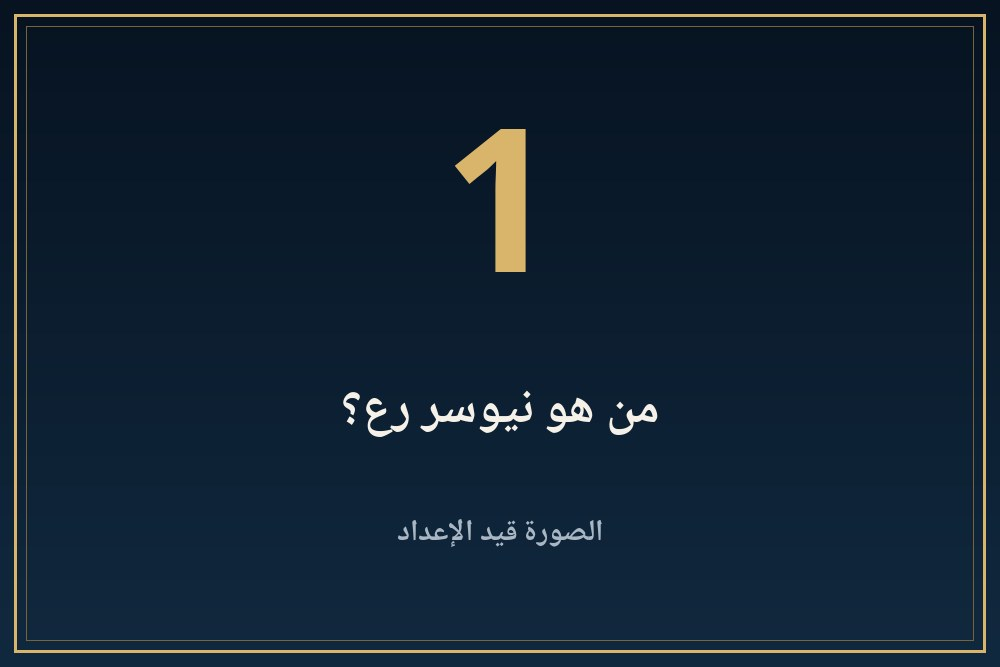
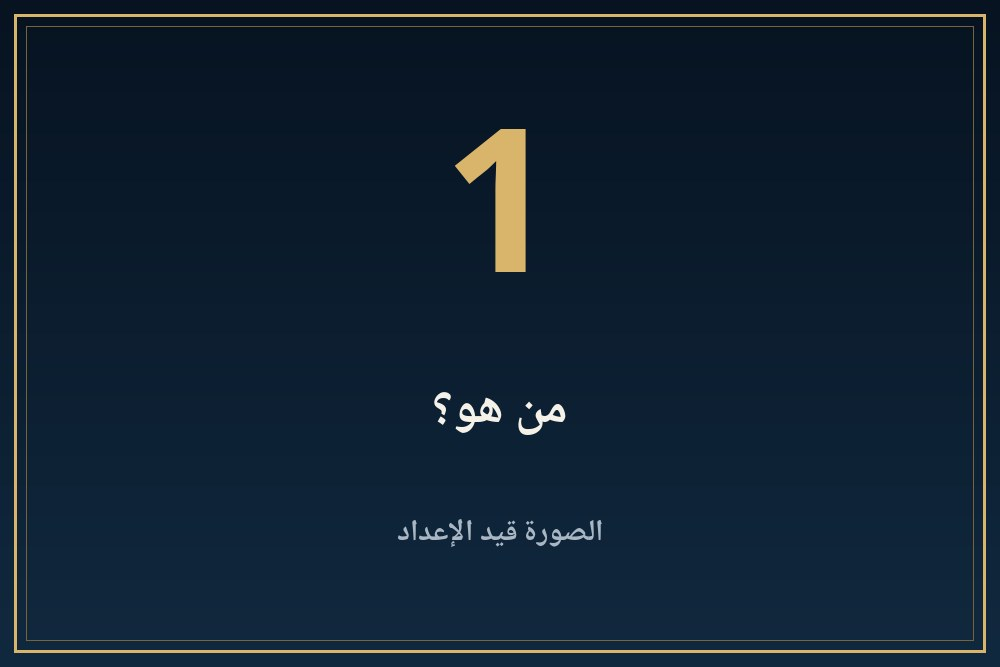
King 028: rebuilt from updated content (placeholders, audio pending)

Changed region(s): [[0.341, 0.5697, 0.682, 0.6597]]

diff --git a/kings/028-nywsr-ra-eny/index.html b/kings/028-nywsr-ra-eny/index.html
@@ -319,12 +319,12 @@ html[dir=ltr] #panav.open,#pash[dir=ltr] #panav.open{border-right:0!important;bo
 .abt ul{list-style:none;margin:0;padding:0;display:grid;gap:9px}
 .abt li{display:grid;grid-template-columns:62px 1fr;gap:10px;align-items:baseline;font-size:14px;line-height:1.85;color:#d6dee8}
 .abt li b{color:#d8b56b;font-size:13px;font-weight:700}
-@media(max-width:520px){.abt li{grid-template-columns:1fr;gap:0}.abt li b{margin-bottom:0}}</style><style id="back-ctl">.back-controls{z-index:80}.back-controls{position:fixed;bottom:18px;left:18px;z-index:30;display:flex;flex-direction:row;align-items:center;gap:8px;direction:ltr}.back-top{position:static;background:#d8b56b;color:#091725;border:1px solid rgba(240,215,157,.65);border-radius:50%;width:36px;height:36px;min-width:36px;padding:0;font-size:18px;line-height:1;cursor:pointer;box-shadow:0 5px 16px #0005;display:none;align-items:center;justify-content:center}.back-top.visible{display:flex}.back-top:hover{background:#f0d79d;transform:translateY(-1px)}@media(max-width:600px){.back-controls{bottom:12px;left:12px;gap:6px}.back-top{width:34px;height:34px;min-width:34px;font-size:17px}}.back-controls{display:flex;flex-direction:row;align-items:center;justify-content:center;gap:7px;direction:ltr}.back-top{width:32px;height:32px;min-width:32px;font-size:16px;background:#d8b56b;color:#091725;border:1px solid #f0d79d;box-shadow:0 4px 12px #0005}@media(max-width:600px){.back-controls{left:12px;bottom:12px;gap:6px}.back-top{width:31px;height:31px;min-width:31px;font-size:15px}}</style><style id="herodesk">@media(min-width:768px){header.hero{display:block!important}header.hero .hero-img{display:block!important;margin:0 auto 28px!important;max-width:460px!important;width:100%!important}header.hero .hero-img img{width:100%!important;height:auto!important;border-radius:18px}header.hero .hero-txt{margin-top:0!important}}</style><style id="urlwrap">.acc .body,.acc .body p,.acc .body li,.acc .body a,.acc .body ol,.acc .body ul{overflow-wrap:anywhere;word-break:break-word;min-width:0;max-width:100%}.acc .body a{display:inline;unicode-bidi:plaintext}</style></head><div class="pa-topline"></div><div id="pash"><div class="pa-nav"><a aria-label="بر عنخ الرئيسية" class="pa-brand" href="/"><span class="pa-mark"><span>𓂀</span></span><span class="pa-name">PER ANKH<small>بيت الحياة · HOUSE OF LIFE</small></span></a><nav aria-label="التنقل الرئيسي في الموقع" id="panav"><a href="/#home" data-ar="الرئيسية" data-en="Home">الرئيسية</a><a href="/#discover" data-ar="الأقسام الرئيسية" data-en="Main sections">الأقسام الرئيسية</a><a href="/#kings-details" data-ar="الملوك" data-en="Kings">الملوك</a><a href="/#religion-details" data-ar="الديانة" data-en="Religion">الديانة</a><a href="/#timeline-details" data-ar="العصور والأسرات" data-en="Eras &amp; dynasties">العصور والأسرات</a><a href="/#sites-details" data-ar="المواقع الأثرية" data-en="Archaeological sites">المواقع الأثرية</a><a href="/#library-details" data-ar="المكتبة" data-en="Library">المكتبة</a><a href="/#learning-details" data-ar="التعلم والاختبار" data-en="Learning &amp; quiz">التعلم والاختبار</a><a href="/#about" data-ar="المؤسس" data-en="Founder">المؤسس</a><a class="nav-extra" href="/#architecture-details" data-ar="العمارة والفنون" data-en="Architecture &amp; art">العمارة والفنون</a><a class="nav-extra" href="/#daily-life-details" data-ar="الحياة اليومية" data-en="Daily life">الحياة اليومية</a><a class="nav-extra" href="/#virtual-museum" data-ar="المتحف الافتراضي" data-en="Virtual museum">المتحف الافتراضي</a><a class="nav-extra" href="/#digital-lab" data-ar="معمل الآثار الرقمي" data-en="Digital archaeology lab">معمل الآثار الرقمي</a><a class="nav-extra" href="/#academy-details" data-ar="أكاديمية بر عنخ" data-en="Per Ankh academy">أكاديمية بر عنخ</a><a class="nav-extra" href="/#references-details" data-ar="المراجع والمصادر" data-en="References &amp; sources">المراجع والمصادر</a><a class="nav-extra" href="/#library-expanded" data-ar="المكتبة الأثرية" data-en="Archaeological library">المكتبة الأثرية</a><a class="nav-extra" href="/#interactive-lab" data-ar="مختبر الحضارة التفاعلي" data-en="Interactive lab">مختبر الحضارة التفاعلي</a><a class="nav-extra" href="/#atlas-explorer" data-ar="الأطلس الأثري" data-en="Archaeological atlas">الأطلس الأثري</a><a class="nav-extra" href="/#photo-gallery" data-ar="معرض الصور الأثري" data-en="Photo gallery">معرض الصور الأثري</a><a class="nav-extra" href="/#community-hub" data-ar="مجتمع بر عنخ" data-en="Community">مجتمع بر عنخ</a></nav><div class="pa-act"><button class="pa-lang" id="paLang" type="button">EN</button><a class="pa-acc" id="paAcc" href="/?account=1" data-ar="حسابي" data-en="Account" aria-label="فتح حساب المستخدم">حسابي</a><button class="pa-menu" id="paMenu" type="button" aria-controls="panav" aria-expanded="false" aria-haspopup="true" aria-label="فتح قائمة أقسام الموقع">☰</button></div></div></div><main class="wrap"><nav class="pa-crumb" id="paCrumb" aria-label="مسار الصفحة"><a href="/" data-ar="الرئيسية" data-en="Home">الرئيسية</a><i aria-hidden="true">‹</i><a href="/#kings-details" data-ar="ملوك مصر القديمة" data-en="Ancient Egyptian Kings">ملوك مصر القديمة</a><i aria-hidden="true">‹</i><span aria-current="page" data-ar="نيوسر رع إني" data-en="Nyuserre">نيوسر رع إني</span></nav><p class="pa-ennote" id="paNote" hidden>The Nyuserre article below is in Arabic. An English translation has not been prepared yet.</p><article><header class="hero"><i class="deco l"></i><i class="deco r"></i><div class="hero-img"><img src="banners/cover_b.jpg?v=3" alt="نيوسر رع إني" width="900" height="1200" fetchpriority="high"></div>
+@media(max-width:520px){.abt li{grid-template-columns:1fr;gap:0}.abt li b{margin-bottom:0}}</style><style id="back-ctl">.back-controls{z-index:80}.back-controls{position:fixed;bottom:18px;left:18px;z-index:30;display:flex;flex-direction:row;align-items:center;gap:8px;direction:ltr}.back-top{position:static;background:#d8b56b;color:#091725;border:1px solid rgba(240,215,157,.65);border-radius:50%;width:36px;height:36px;min-width:36px;padding:0;font-size:18px;line-height:1;cursor:pointer;box-shadow:0 5px 16px #0005;display:none;align-items:center;justify-content:center}.back-top.visible{display:flex}.back-top:hover{background:#f0d79d;transform:translateY(-1px)}@media(max-width:600px){.back-controls{bottom:12px;left:12px;gap:6px}.back-top{width:34px;height:34px;min-width:34px;font-size:17px}}.back-controls{display:flex;flex-direction:row;align-items:center;justify-content:center;gap:7px;direction:ltr}.back-top{width:32px;height:32px;min-width:32px;font-size:16px;background:#d8b56b;color:#091725;border:1px solid #f0d79d;box-shadow:0 4px 12px #0005}@media(max-width:600px){.back-controls{left:12px;bottom:12px;gap:6px}.back-top{width:31px;height:31px;min-width:31px;font-size:15px}}</style><style id="herodesk">@media(min-width:768px){header.hero{display:block!important}header.hero .hero-img{display:block!important;margin:0 auto 28px!important;max-width:460px!important;width:100%!important}header.hero .hero-img img{width:100%!important;height:auto!important;border-radius:18px}header.hero .hero-txt{margin-top:0!important}}</style><style id="urlwrap">.acc .body,.acc .body p,.acc .body li,.acc .body a,.acc .body ol,.acc .body ul{overflow-wrap:anywhere;word-break:break-word;min-width:0;max-width:100%}.acc .body a{display:inline;unicode-bidi:plaintext}</style></head><div class="pa-topline"></div><div id="pash"><div class="pa-nav"><a aria-label="بر عنخ الرئيسية" class="pa-brand" href="/"><span class="pa-mark"><span>𓂀</span></span><span class="pa-name">PER ANKH<small>بيت الحياة · HOUSE OF LIFE</small></span></a><nav aria-label="التنقل الرئيسي في الموقع" id="panav"><a href="/#home" data-ar="الرئيسية" data-en="Home">الرئيسية</a><a href="/#discover" data-ar="الأقسام الرئيسية" data-en="Main sections">الأقسام الرئيسية</a><a href="/#kings-details" data-ar="الملوك" data-en="Kings">الملوك</a><a href="/#religion-details" data-ar="الديانة" data-en="Religion">الديانة</a><a href="/#timeline-details" data-ar="العصور والأسرات" data-en="Eras &amp; dynasties">العصور والأسرات</a><a href="/#sites-details" data-ar="المواقع الأثرية" data-en="Archaeological sites">المواقع الأثرية</a><a href="/#library-details" data-ar="المكتبة" data-en="Library">المكتبة</a><a href="/#learning-details" data-ar="التعلم والاختبار" data-en="Learning &amp; quiz">التعلم والاختبار</a><a href="/#about" data-ar="المؤسس" data-en="Founder">المؤسس</a><a class="nav-extra" href="/#architecture-details" data-ar="العمارة والفنون" data-en="Architecture &amp; art">العمارة والفنون</a><a class="nav-extra" href="/#daily-life-details" data-ar="الحياة اليومية" data-en="Daily life">الحياة اليومية</a><a class="nav-extra" href="/#virtual-museum" data-ar="المتحف الافتراضي" data-en="Virtual museum">المتحف الافتراضي</a><a class="nav-extra" href="/#digital-lab" data-ar="معمل الآثار الرقمي" data-en="Digital archaeology lab">معمل الآثار الرقمي</a><a class="nav-extra" href="/#academy-details" data-ar="أكاديمية بر عنخ" data-en="Per Ankh academy">أكاديمية بر عنخ</a><a class="nav-extra" href="/#references-details" data-ar="المراجع والمصادر" data-en="References &amp; sources">المراجع والمصادر</a><a class="nav-extra" href="/#library-expanded" data-ar="المكتبة الأثرية" data-en="Archaeological library">المكتبة الأثرية</a><a class="nav-extra" href="/#interactive-lab" data-ar="مختبر الحضارة التفاعلي" data-en="Interactive lab">مختبر الحضارة التفاعلي</a><a class="nav-extra" href="/#atlas-explorer" data-ar="الأطلس الأثري" data-en="Archaeological atlas">الأطلس الأثري</a><a class="nav-extra" href="/#photo-gallery" data-ar="معرض الصور الأثري" data-en="Photo gallery">معرض الصور الأثري</a><a class="nav-extra" href="/#community-hub" data-ar="مجتمع بر عنخ" data-en="Community">مجتمع بر عنخ</a></nav><div class="pa-act"><button class="pa-lang" id="paLang" type="button">EN</button><a class="pa-acc" id="paAcc" href="/?account=1" data-ar="حسابي" data-en="Account" aria-label="فتح حساب المستخدم">حسابي</a><button class="pa-menu" id="paMenu" type="button" aria-controls="panav" aria-expanded="false" aria-haspopup="true" aria-label="فتح قائمة أقسام الموقع">☰</button></div></div></div><main class="wrap"><nav class="pa-crumb" id="paCrumb" aria-label="مسار الصفحة"><a href="/" data-ar="الرئيسية" data-en="Home">الرئيسية</a><i aria-hidden="true">‹</i><a href="/#kings-details" data-ar="ملوك مصر القديمة" data-en="Ancient Egyptian Kings">ملوك مصر القديمة</a><i aria-hidden="true">‹</i><span aria-current="page" data-ar="نيوسر رع إني" data-en="Niuserre">نيوسر رع إني</span></nav><p class="pa-ennote" id="paNote" hidden>The Niuserre article below is in Arabic. An English translation has not been prepared yet.</p><article><header class="hero"><i class="deco l"></i><i class="deco r"></i><div class="hero-img"><img src="banners/cover_b.jpg?v=3" alt="نيوسر رع إني" width="900" height="1200" fetchpriority="high"></div>
 <div class="hero-txt"><div class="eyebrow" aria-hidden="true"></div><h1>نيوسر رع إني</h1><p class="sub">معبد الشمس في أبو غراب والهرم بأبو صير</p></div></header><div class="tools"><button id="all" type="button"><svg viewBox="0 0 24 24" width="24" height="24" fill="none" stroke="currentColor" stroke-width="2.4" stroke-linecap="round" stroke-linejoin="round" aria-hidden="true"><path d="M6 6l6 6 6-6M6 13l6 6 6-6"/></svg><span>فتح الكل</span></button><button id="none" type="button"><svg viewBox="0 0 24 24" width="24" height="24" fill="none" stroke="currentColor" stroke-width="2" stroke-linejoin="round" stroke-linecap="round" aria-hidden="true"><rect x="3" y="4" width="18" height="16" rx="2"/><circle cx="9" cy="9.5" r="1.6" fill="currentColor"/><path d="M3.5 18l5.5-5.5 4 4 3-3 4.5 4.5"/></svg><span>إغلاق الكل</span></button></div><div class="legend" role="note"><b>دليل العلامات في الصفحة</b>
 <div class="row"><span class="bdg v">موثّق</span><span>مذكور في مصدر مرقّم يمكن فتحه من قسم المراجع.</span></div>
 <div class="row"><span class="bdg d">محل خلاف</span><span>الصفحة نفسها تذكر أن الباحثين أو المصادر مختلفون فيه.</span></div>
 <div class="row"><span class="bdg u">لم يُتحقق منه</span><span>الصفحة تذكر أنه من مصدر واحد ولم يُتحقق منه في مصدر ثانٍ.</span></div></div>
-<div class="band" aria-hidden="true"></div><details class="acc k1" id="s1"><summary><img class="bnr" src="banners/b01.jpg?v=1" alt="" width="1000" height="667"><span class="n">1</span><span class="t">من هو نيوسر رع؟</span><span class="ch"></span></summary><div class="body"><button class="lbtn" type="button" disabled aria-disabled="true" style="opacity:.55;cursor:default"><svg viewBox="0 0 24 24" fill="currentColor" aria-hidden="true"><path d="M7 4.5v15a1 1 0 001.5.86l12-7.5a1 1 0 000-1.72l-12-7.5A1 1 0 007 4.5z"/></svg><span>التعليق الصوتي قريبًا</span></button><p><span class="bdg v">موثّق</span> يقول سليم حسن (ج1 ص261) إن نيوسر رع «شخصية هامة»، وإن معبده وهرمه بأبي صير. وتقديره لمدة حكمه (نحو 30 عاما) مشوه في النص الممسوح فلا نعتمده.<sup><a href="#r1">[1]</a></sup></p></div></details><details class="acc k2" id="s2"><summary><img class="bnr" src="banners/b02.jpg?v=1" alt="" loading="lazy" width="1000" height="667"><span class="n">2</span><span class="t">أقدم رسم لعيد سد الرسمي</span><span class="ch"></span></summary><div class="body"><button class="lbtn" type="button" disabled aria-disabled="true" style="opacity:.55;cursor:default"><svg viewBox="0 0 24 24" fill="currentColor" aria-hidden="true"><path d="M7 4.5v15a1 1 0 001.5.86l12-7.5a1 1 0 000-1.72l-12-7.5A1 1 0 007 4.5z"/></svg><span>التعليق الصوتي قريبًا</span></button><p><span class="bdg v">موثّق</span> يقول سليم حسن (ص261) إن على معبده «أقدم رسم لاحتفال عيد سد الرسمي».<sup><a href="#r1">[1]</a></sup></p></div></details><details class="acc k3" id="s3"><summary><img class="bnr" src="banners/b03.jpg?v=1" alt="" loading="lazy" width="1000" height="667"><span class="n">3</span><span class="t">قبر حتب حر آخت</span><span class="ch"></span></summary><div class="body"><button class="lbtn" type="button" disabled aria-disabled="true" style="opacity:.55;cursor:default"><svg viewBox="0 0 24 24" fill="currentColor" aria-hidden="true"><path d="M7 4.5v15a1 1 0 001.5.86l12-7.5a1 1 0 000-1.72l-12-7.5A1 1 0 007 4.5z"/></svg><span>التعليق الصوتي قريبًا</span></button><p><span class="bdg v">موثّق</span> يذكر سليم حسن (ص262) قبر حتب حر آخت (متحف ليدن)، وفيه عبارات اعتذار مثل «لم أستولِ على شيء للغير» وتحذير للمعتدين على المقبرة.<sup><a href="#r1">[1]</a></sup></p></div></details><details class="acc k4" id="s4"><summary><img class="bnr" src="banners/b04.jpg?v=1" alt="" loading="lazy" width="1000" height="667"><span class="n">4</span><span class="t">ما لا نعرفه</span><span class="ch"></span></summary><div class="body"><button class="lbtn" type="button" disabled aria-disabled="true" style="opacity:.55;cursor:default"><svg viewBox="0 0 24 24" fill="currentColor" aria-hidden="true"><path d="M7 4.5v15a1 1 0 001.5.86l12-7.5a1 1 0 000-1.72l-12-7.5A1 1 0 007 4.5z"/></svg><span>التعليق الصوتي قريبًا</span></button><p><span class="bdg u">لم يُتحقق منه</span> لا نعرف مدة حكمه بيقين من نسختنا، ولم نقرأ مصدرا ثانيا. ولم نذكر أرقام الهرم.</p></div></details><details class="acc k4" id="refs"><summary><img class="bnr" src="banners/b05.jpg?v=1" alt="" loading="lazy" width="1000" height="667"><span class="n">5</span><span class="t">المراجع</span><span class="ch"></span></summary><div class="body"><button class="lbtn" type="button" disabled aria-disabled="true" style="opacity:.55;cursor:default"><svg viewBox="0 0 24 24" fill="currentColor" aria-hidden="true"><path d="M7 4.5v15a1 1 0 001.5.86l12-7.5a1 1 0 000-1.72l-12-7.5A1 1 0 007 4.5z"/></svg><span>التعليق الصوتي قريبًا</span></button><p><b>مصادر فتحتُ صفحاتها وقرأتها:</b></p><ol><li id="r1" dir="auto">سليم حسن، موسوعة مصر القديمة، ج1، الفصل 15: <a dir="ltr" style="display:inline-block;overflow-wrap:anywhere" href="https://archive.org/details/20201104_20201104_1559" rel="noopener" target="_blank">archive.org/details/20201104_20201104_1559</a></li></ol><div class="flag"><b>تنبيه:</b> عدد المصادر المصرية المفتوحة لهذه الصفحة واحد فقط. لا نضيف تفاصيل لم تثبت في مصدر فتحناه وقرأنا نصه، وحيث يختلف المصدران ننسب كل رأي لصاحبه.</div></div></details></article><aside class="abt" aria-label="عن هذه الصفحة"><h3>عن هذه الصفحة</h3><ul><li><b>المحتوى</b><span>جزء من موسوعة بر عنخ التعليمية. التواريخ والتفسيرات وفق المراجع المتاحة، وقد تختلف التفاصيل بين الدراسات.</span></li><li><b>الصور</b><span>صور هذه الصفحة أماكن حجز مؤقتة إلى أن تُضاف الصور الفنية.</span></li><li><b>الصوت</b><span>التعليق الصوتي قيد الإعداد.</span></li></ul></aside><a class="back" href="/kings/">← تصفح المزيد</a><a class="back" href="/">العودة إلى الرئيسية</a><dialog id="lb"><img alt=""><p></p><button type="button">إغلاق</button></dialog>
+<div class="band" aria-hidden="true"></div><details class="acc k1" id="s1"><summary><img class="bnr" src="banners/b01.jpg?v=1" alt="" width="1000" height="667"><span class="n">1</span><span class="t">من هو؟</span><span class="ch"></span></summary><div class="body"><button class="lbtn" type="button" disabled aria-disabled="true" style="opacity:.55;cursor:default"><svg viewBox="0 0 24 24" fill="currentColor" aria-hidden="true"><path d="M7 4.5v15a1 1 0 001.5.86l12-7.5a1 1 0 000-1.72l-12-7.5A1 1 0 007 4.5z"/></svg><span>التعليق الصوتي قريبًا</span></button><p><span class="bdg v">موثّق</span> يقول كتاب الميت (ص33) إن اسمه الحوري «إست إب تاوي» أي «حبيب الأرضين»، وإن عهده نحو ثلاثين سنة، وإن إحدى بناته تزوجت الوزير بتاح شبسس الذي رُمّمت مصطبته قرب الهرم الملكي. ويقول سليم حسن (ص261) إنه «شخصية هامة».<sup><a href="#r1">[1]</a><a href="#r4">[4]</a></sup></p></div></details><details class="acc k2" id="s2"><summary><img class="bnr" src="banners/b02.jpg?v=1" alt="" loading="lazy" width="1000" height="667"><span class="n">2</span><span class="t">معبد الشمس في أبو غراب</span><span class="ch"></span></summary><div class="body"><button class="lbtn" type="button" disabled aria-disabled="true" style="opacity:.55;cursor:default"><svg viewBox="0 0 24 24" fill="currentColor" aria-hidden="true"><path d="M7 4.5v15a1 1 0 001.5.86l12-7.5a1 1 0 000-1.72l-12-7.5A1 1 0 007 4.5z"/></svg><span>التعليق الصوتي قريبًا</span></button><p><span class="bdg v">موثّق</span> يقول صالح (ص203-204) إن أبقى معابد الشمس هو معبد ني وسر رع سادس ملوك الأسرة، وهو ضخم شُيد أغلبه من الحجر. ويقول نور الدين (ص55) إن عناصره معبد يشبه معبد الوادي، وطريق صاعد، ومعبد رئيسي فيه فناء تتوسطه مسلة يزيد ارتفاعها عن 20 مترا، ومائدة قرابين شرقها، وبناء من اللبن على شكل مركب في الركن الجنوبي.<sup><a href="#r2">[2]</a><a href="#r3">[3]</a></sup></p></div></details><details class="acc k3" id="s3"><summary><img class="bnr" src="banners/b03.jpg?v=1" alt="" loading="lazy" width="1000" height="667"><span class="n">3</span><span class="t">أبو غراب أم أبو صير؟</span><span class="ch"></span></summary><div class="body"><button class="lbtn" type="button" disabled aria-disabled="true" style="opacity:.55;cursor:default"><svg viewBox="0 0 24 24" fill="currentColor" aria-hidden="true"><path d="M7 4.5v15a1 1 0 001.5.86l12-7.5a1 1 0 000-1.72l-12-7.5A1 1 0 007 4.5z"/></svg><span>التعليق الصوتي قريبًا</span></button><p><span class="bdg d">محل خلاف</span> يضع صالح (ص203) معبد الشمس في أبو غراب جنوبي الجيزة، ويسمي نور الدين (ص99) الصورة «بأبو غراب» لكنه يقول في تعليق صورة آخر (ص310) «بأبي صير». فالتسمية مختلفة داخل كتاب نور الدين نفسه، وكتاب الميت (ص33) يقول «أبو غراب». نعتمد أبو غراب ونذكر الاختلاف.<sup><a href="#r2">[2]</a><a href="#r3">[3]</a><a href="#r4">[4]</a></sup></p></div></details><details class="acc k4" id="s4"><summary><img class="bnr" src="banners/b04.jpg?v=1" alt="" loading="lazy" width="1000" height="667"><span class="n">4</span><span class="t">ارتفاع المسلة</span><span class="ch"></span></summary><div class="body"><button class="lbtn" type="button" disabled aria-disabled="true" style="opacity:.55;cursor:default"><svg viewBox="0 0 24 24" fill="currentColor" aria-hidden="true"><path d="M7 4.5v15a1 1 0 001.5.86l12-7.5a1 1 0 000-1.72l-12-7.5A1 1 0 007 4.5z"/></svg><span>التعليق الصوتي قريبًا</span></button><p><span class="bdg d">محل خلاف</span> يقول نور الدين (ص55) إن المسلة تزيد عن 20 مترا، ويقول صالح (ص204) إن بورخارت يعتقد أنها نحو سبعين مترا لكن الرقم مشوه في نسختنا. فلا نعتمد رقما.<sup><a href="#r2">[2]</a><a href="#r3">[3]</a></sup></p></div></details><details class="acc k1" id="s5"><summary><img class="bnr" src="banners/b05.jpg?v=1" alt="" loading="lazy" width="1000" height="667"><span class="n">5</span><span class="t">قمة المسلة «بن بن»</span><span class="ch"></span></summary><div class="body"><button class="lbtn" type="button" disabled aria-disabled="true" style="opacity:.55;cursor:default"><svg viewBox="0 0 24 24" fill="currentColor" aria-hidden="true"><path d="M7 4.5v15a1 1 0 001.5.86l12-7.5a1 1 0 000-1.72l-12-7.5A1 1 0 007 4.5z"/></svg><span>التعليق الصوتي قريبًا</span></button><p><span class="bdg d">محل خلاف</span> يقول صالح (ص204) إن قمتها اتخذت هيئة الهرم الصغير، ويُرجّح أنها كُسيت بصفائح النحاس أو الذهب لتتلألأ بأشعة الشمس، ولهذا ربما سميت «بنبن» أي المشعة. ويقول إن شبيجل يرى أن قمتها ترمز إلى ما ترمز إليه قمم الأهرام. ويقول نور الدين (ص311-312) إن باحثين ربطوا المسلة بتل أزلي وبصخرة مخروطية في هليوبوليس. وهذه تفسيرات لا يحسمها نص.<sup><a href="#r2">[2]</a><a href="#r3">[3]</a></sup></p></div></details><details class="acc k2" id="s6"><summary><img class="bnr" src="banners/b06.jpg?v=1" alt="" loading="lazy" width="1000" height="667"><span class="n">6</span><span class="t">مائدة القرابين والمركب</span><span class="ch"></span></summary><div class="body"><button class="lbtn" type="button" disabled aria-disabled="true" style="opacity:.55;cursor:default"><svg viewBox="0 0 24 24" fill="currentColor" aria-hidden="true"><path d="M7 4.5v15a1 1 0 001.5.86l12-7.5a1 1 0 000-1.72l-12-7.5A1 1 0 007 4.5z"/></svg><span>التعليق الصوتي قريبًا</span></button><p><span class="bdg v">موثّق</span> يقول صالح (ص204) إن أمام المسلة شرقها مائدة من المرمر تقدم عليها القرابين، وموضعين لنحر الضحايا يسيل الدم منهما إلى أحواض حجرية، وهيئة مركب من اللبن قرب الجدار الجنوبي فيها مركب خشبي طولها نحو ثلاثين مترا ترمز إلى مركب الشمس. ويقول إنه يُحتمل وجود مركب ثان.<sup><a href="#r2">[2]</a></sup></p></div></details><details class="acc k3" id="s7"><summary><img class="bnr" src="banners/b07.jpg?v=1" alt="" loading="lazy" width="1000" height="667"><span class="n">7</span><span class="t">غرفة الفصول</span><span class="ch"></span></summary><div class="body"><button class="lbtn" type="button" disabled aria-disabled="true" style="opacity:.55;cursor:default"><svg viewBox="0 0 24 24" fill="currentColor" aria-hidden="true"><path d="M7 4.5v15a1 1 0 001.5.86l12-7.5a1 1 0 000-1.72l-12-7.5A1 1 0 007 4.5z"/></svg><span>التعليق الصوتي قريبًا</span></button><p><span class="bdg v">موثّق</span> يقول صالح (ص205) إن الفنانين زينوا قاعات وممرات بمناظر زاهية الألوان تمثل الحياة عبر فصول السنة: حرث وبذر وحصاد وتناسل الحيوانات وحياة الطيور وتعبئة العسل وتخمير العنب. ويقول كتاب الميت (ص33) إن «غرفة الفصول» (القطعتان 119 و120) مزينة بنقوش تمثل فصول السنة المصرية، وخلف كل فصل مشهد يوم من أنشطته، وإن الأقاليم تحمل هداياها إلى رع.<sup><a href="#r2">[2]</a><a href="#r4">[4]</a></sup></p></div></details><details class="acc k4" id="s8"><summary><img class="bnr" src="banners/b08.jpg?v=1" alt="" loading="lazy" width="1000" height="667"><span class="n">8</span><span class="t">الهرم والتماثيل</span><span class="ch"></span></summary><div class="body"><button class="lbtn" type="button" disabled aria-disabled="true" style="opacity:.55;cursor:default"><svg viewBox="0 0 24 24" fill="currentColor" aria-hidden="true"><path d="M7 4.5v15a1 1 0 001.5.86l12-7.5a1 1 0 000-1.72l-12-7.5A1 1 0 007 4.5z"/></svg><span>التعليق الصوتي قريبًا</span></button><p><span class="bdg v">موثّق</span> يذكر نور الدين (ص251) تمثالا للملك عُثر عليه بمعبده الجنائزي. ويقول كتاب الميت (ص33) إن مجموعته الجنائزية في أبو صير ومعبده في أبو غراب هما مصدر معرفتنا بعهده.<sup><a href="#r3">[3]</a><a href="#r4">[4]</a></sup></p></div></details><details class="acc k1" id="s9"><summary><img class="bnr" src="banners/b09.jpg?v=1" alt="" loading="lazy" width="1000" height="667"><span class="n">9</span><span class="t">نقش الرضاعة</span><span class="ch"></span></summary><div class="body"><button class="lbtn" type="button" disabled aria-disabled="true" style="opacity:.55;cursor:default"><svg viewBox="0 0 24 24" fill="currentColor" aria-hidden="true"><path d="M7 4.5v15a1 1 0 001.5.86l12-7.5a1 1 0 000-1.72l-12-7.5A1 1 0 007 4.5z"/></svg><span>التعليق الصوتي قريبًا</span></button><p><span class="bdg d">محل خلاف</span> يقول كتاب الميت (ص377) إن نقوشا كثيرة في مجمعات الأهرام تُصور الملك يرضع من شخصية مقدسة، وإن اسم «سمات ور» أي «البقرة البرية العظيمة» كُتب بجانب مثيلتها في معبد وادي ساحورع. فالمصدر يذكر النمط والاسم ولا ننسبه إلى معبده بيقين.<sup><a href="#r4">[4]</a></sup></p></div></details><details class="acc k2" id="s10"><summary><img class="bnr" src="banners/b10.jpg?v=1" alt="" loading="lazy" width="1000" height="667"><span class="n">10</span><span class="t">قبر حتب حر آخت</span><span class="ch"></span></summary><div class="body"><button class="lbtn" type="button" disabled aria-disabled="true" style="opacity:.55;cursor:default"><svg viewBox="0 0 24 24" fill="currentColor" aria-hidden="true"><path d="M7 4.5v15a1 1 0 001.5.86l12-7.5a1 1 0 000-1.72l-12-7.5A1 1 0 007 4.5z"/></svg><span>التعليق الصوتي قريبًا</span></button><p><span class="bdg v">موثّق</span> يقول سليم حسن (ص262) إن قبر حتب حر آخت في متحف ليدن فيه عبارات اعتذار مثل «لم أستولِ على شيء للغير» وتحذير للمعتدين.<sup><a href="#r1">[1]</a></sup></p></div></details><details class="acc k3" id="s11"><summary><img class="bnr" src="banners/b11.jpg?v=1" alt="" loading="lazy" width="1000" height="667"><span class="n">11</span><span class="t">ما لا نعرفه</span><span class="ch"></span></summary><div class="body"><button class="lbtn" type="button" disabled aria-disabled="true" style="opacity:.55;cursor:default"><svg viewBox="0 0 24 24" fill="currentColor" aria-hidden="true"><path d="M7 4.5v15a1 1 0 001.5.86l12-7.5a1 1 0 000-1.72l-12-7.5A1 1 0 007 4.5z"/></svg><span>التعليق الصوتي قريبًا</span></button><p><span class="bdg u">لم يُتحقق منه</span> لا نعرف ارتفاع المسلة بيقين، ولا هل عاش بعده من بنى معبدا مماثلا، ولا كيف يؤرَّخ الاختلاف بين التسميتين. ولم نذكر الأرقام المشوهة.</p></div></details><details class="acc k4" id="refs"><summary><img class="bnr" src="banners/b12.jpg?v=1" alt="" loading="lazy" width="1000" height="667"><span class="n">12</span><span class="t">المراجع</span><span class="ch"></span></summary><div class="body"><button class="lbtn" type="button" disabled aria-disabled="true" style="opacity:.55;cursor:default"><svg viewBox="0 0 24 24" fill="currentColor" aria-hidden="true"><path d="M7 4.5v15a1 1 0 001.5.86l12-7.5a1 1 0 000-1.72l-12-7.5A1 1 0 007 4.5z"/></svg><span>التعليق الصوتي قريبًا</span></button><p><b>مصادر فتحتُ صفحاتها وقرأتها:</b></p><ol><li id="r1" dir="auto">سليم حسن، موسوعة مصر القديمة، ج1، الفصل 15: <a dir="ltr" style="display:inline-block;overflow-wrap:anywhere" href="https://archive.org/details/20201104_20201104_1559" rel="noopener" target="_blank">archive.org/details/20201104_20201104_1559</a></li><li id="r2" dir="auto">عبد العزيز صالح، الشرق الأدنى القديم ج1 (مصر والعراق)، أرقام صفحات PDF: <a dir="ltr" style="display:inline-block;overflow-wrap:anywhere" href="https://archive.org/details/20210510_20210510_0037" rel="noopener" target="_blank">archive.org/details/20210510_20210510_0037</a></li><li id="r3" dir="auto">عبد الحليم نور الدين، آثار وحضارة مصر القديمة ج1، أرقام صفحات PDF: <a dir="ltr" style="display:inline-block;overflow-wrap:anywhere" href="https://archive.org/details/AAlexandrina-117303" rel="noopener" target="_blank">archive.org/details/AAlexandrina-117303</a></li><li id="r4" dir="auto">The Metropolitan Museum of Art, Egyptian Art in the Age of the Pyramids, 1999 (فصول كوزلوف وأرنولد وزيجلر وجريمال): <a dir="ltr" style="display:inline-block;overflow-wrap:anywhere" href="https://www.metmuseum.org/met-publications/egyptian-art-in-the-age-of-the-pyramids" rel="noopener" target="_blank">www.metmuseum.org/met-publications/egyptian-art-in-the-age-of-the-pyramids</a></li></ol></div></details></article><aside class="abt" aria-label="عن هذه الصفحة"><h3>عن هذه الصفحة</h3><ul><li><b>المحتوى</b><span>جزء من موسوعة بر عنخ التعليمية. التواريخ والتفسيرات وفق المراجع المتاحة، وقد تختلف التفاصيل بين الدراسات.</span></li><li><b>الصور</b><span>صور هذه الصفحة أماكن حجز مؤقتة إلى أن تُضاف الصور الفنية.</span></li><li><b>الصوت</b><span>التعليق الصوتي قيد الإعداد.</span></li></ul></aside><a class="back" href="/kings/">← تصفح المزيد</a><a class="back" href="/">العودة إلى الرئيسية</a><dialog id="lb"><img alt=""><p></p><button type="button">إغلاق</button></dialog>
 <script>(function(){var A=function(){return document.querySelectorAll("details.acc")};
 document.getElementById("all").onclick=function(){A().forEach(function(d){d.open=true})};
 document.getElementById("none").onclick=function(){A().forEach(function(d){d.open=false})};
@@ -332,7 +332,7 @@ function go(h){var e=h&&document.getElementById(h.slice(1));if(!e)return;var d=e
 document.addEventListener("click",function(e){var a=e.target.closest&&e.target.closest('a[href^="#"]');if(a){go(a.getAttribute("href"))}});
 if(location.hash)go(location.hash);
 var d=document.getElementById("lb");if(!d||!d.showModal)return;var im=d.querySelector("img"),p=d.querySelector("p");document.addEventListener("click",function(e){var t=e.target;if(t.tagName=="IMG"&&t.closest(".fig")){im.src=t.src;im.alt=t.alt;p.textContent=t.closest("figure").querySelector("figcaption").innerText;d.showModal()}else if(t==d||t.tagName=="BUTTON"&&d.contains(t)){d.close()}})})();</script><div class="pbar" id="pbar"></div><div class="pl" id="pl" role="region" aria-label="مشغّل الاستماع"><div class="in"><button class="pp" id="pp" type="button" aria-label="تشغيل"><svg viewBox="0 0 24 24" fill="currentColor" aria-hidden="true"><path d="M7 4.5v15a1 1 0 001.5.86l12-7.5a1 1 0 000-1.72l-12-7.5A1 1 0 007 4.5z"/></svg></button><div class="mid"><div class="ttl"><span id="tt">استماع</span> <i>صوت اصطناعي</i></div><input id="sk" type="range" min="0" max="1000" value="0" aria-label="موضع التشغيل"><div class="tm"><span id="cur">0:00</span><span id="dur">0:00</span></div></div><div class="ex"><button id="bk" type="button" aria-label="رجوع 10 ثوانٍ">−10</button><button id="fw" type="button" aria-label="تقدم 10 ثوانٍ">+10</button><button id="sp" class="sp" type="button" aria-label="سرعة التشغيل">1×</button><button id="cl" type="button" aria-label="إغلاق المشغّل">✕</button></div><p class="err" id="er" role="alert" hidden>تعذر تحميل الملف الصوتي. حاول لاحقًا.</p></div><div aria-live="polite" id="st" style="position:absolute;left:-9999px"></div><audio id="au" preload="none"></audio></div></main><script>(function(){
-var S={"s1": ["من هو نيوسر رع؟", 1], "s2": ["أقدم رسم لعيد سد الرسمي", 1], "s3": ["قبر حتب حر آخت", 1], "s4": ["ما لا نعرفه", 1], "refs": ["المراجع", 1]},$=function(i){return document.getElementById(i)},au=$("au"),pl=$("pl"),pp=$("pp"),sk=$("sk"),P="<svg viewBox=\"0 0 24 24\" fill=\"currentColor\" aria-hidden=\"true\"><path d=\"M7 4.5v15a1 1 0 001.5.86l12-7.5a1 1 0 000-1.72l-12-7.5A1 1 0 007 4.5z\"/></svg>",Q="<svg viewBox=\"0 0 24 24\" fill=\"currentColor\" aria-hidden=\"true\"><rect x=\"5.5\" y=\"4\" width=\"4.5\" height=\"16\" rx=\"1.2\"/><rect x=\"14\" y=\"4\" width=\"4.5\" height=\"16\" rx=\"1.2\"/></svg>",cur=null,part=1,seeking=false;
+var S={"s1": ["من هو؟", 1], "s2": ["معبد الشمس في أبو غراب", 1], "s3": ["أبو غراب أم أبو صير؟", 1], "s4": ["ارتفاع المسلة", 1], "s5": ["قمة المسلة «بن بن»", 1], "s6": ["مائدة القرابين والمركب", 1], "s7": ["غرفة الفصول", 1], "s8": ["الهرم والتماثيل", 1], "s9": ["نقش الرضاعة", 1], "s10": ["قبر حتب حر آخت", 1], "s11": ["ما لا نعرفه", 1], "refs": ["المراجع", 1]},$=function(i){return document.getElementById(i)},au=$("au"),pl=$("pl"),pp=$("pp"),sk=$("sk"),P="<svg viewBox=\"0 0 24 24\" fill=\"currentColor\" aria-hidden=\"true\"><path d=\"M7 4.5v15a1 1 0 001.5.86l12-7.5a1 1 0 000-1.72l-12-7.5A1 1 0 007 4.5z\"/></svg>",Q="<svg viewBox=\"0 0 24 24\" fill=\"currentColor\" aria-hidden=\"true\"><rect x=\"5.5\" y=\"4\" width=\"4.5\" height=\"16\" rx=\"1.2\"/><rect x=\"14\" y=\"4\" width=\"4.5\" height=\"16\" rx=\"1.2\"/></svg>",cur=null,part=1,seeking=false;
 function fmt(t){if(!isFinite(t))return"0:00";var m=Math.floor(t/60),s=Math.floor(t%60);return m+":"+(s<10?"0":"")+s}
 function btns(){document.querySelectorAll(".lbtn").forEach(function(b){var on=b.dataset.s===cur&&!au.paused;b.classList.toggle("on",on);b.querySelector("span").textContent=on?"إيقاف مؤقت":(b.dataset.s===cur&&au.currentTime>1?"أكمل الاستماع":"استمع لهذا القسم");b.querySelector("svg").outerHTML=on?Q:P})}
 function ui(){var pa=au.paused;pp.innerHTML=pa?P:Q;pp.setAttribute("aria-label",pa?"تشغيل":"إيقاف مؤقت");btns()}
